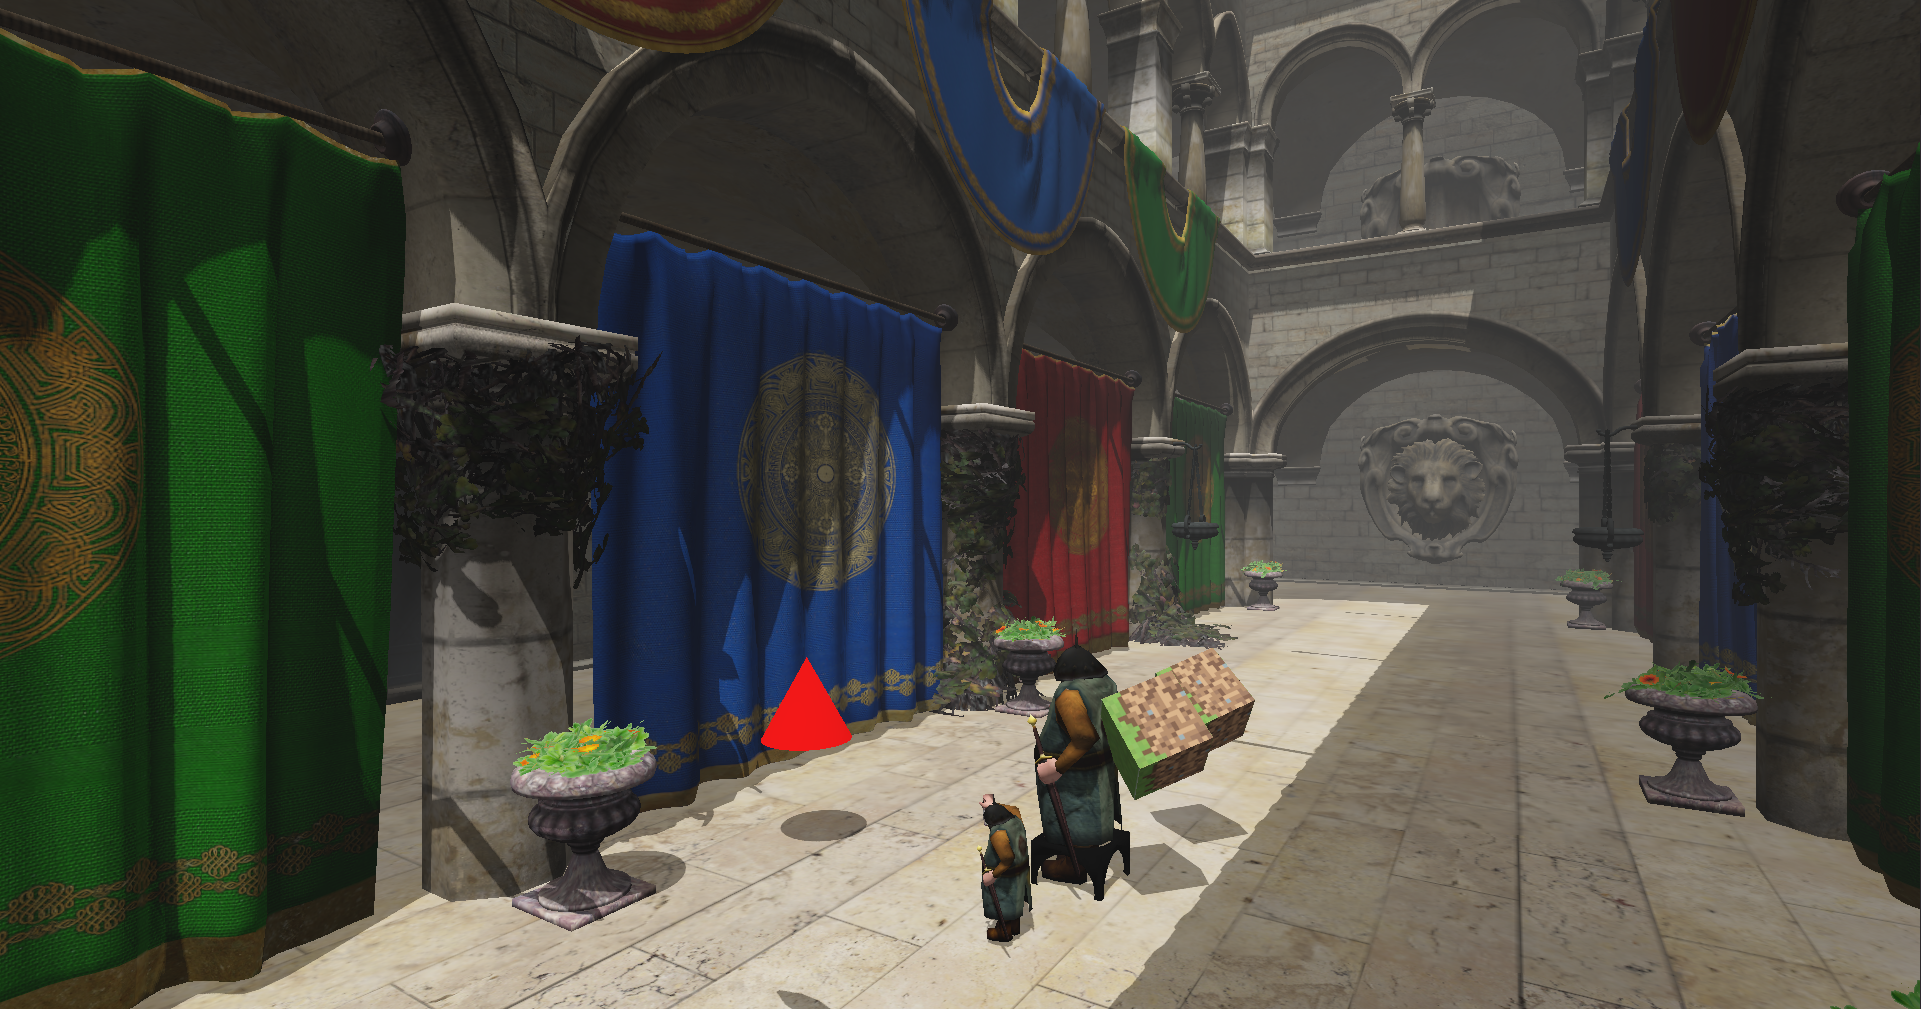
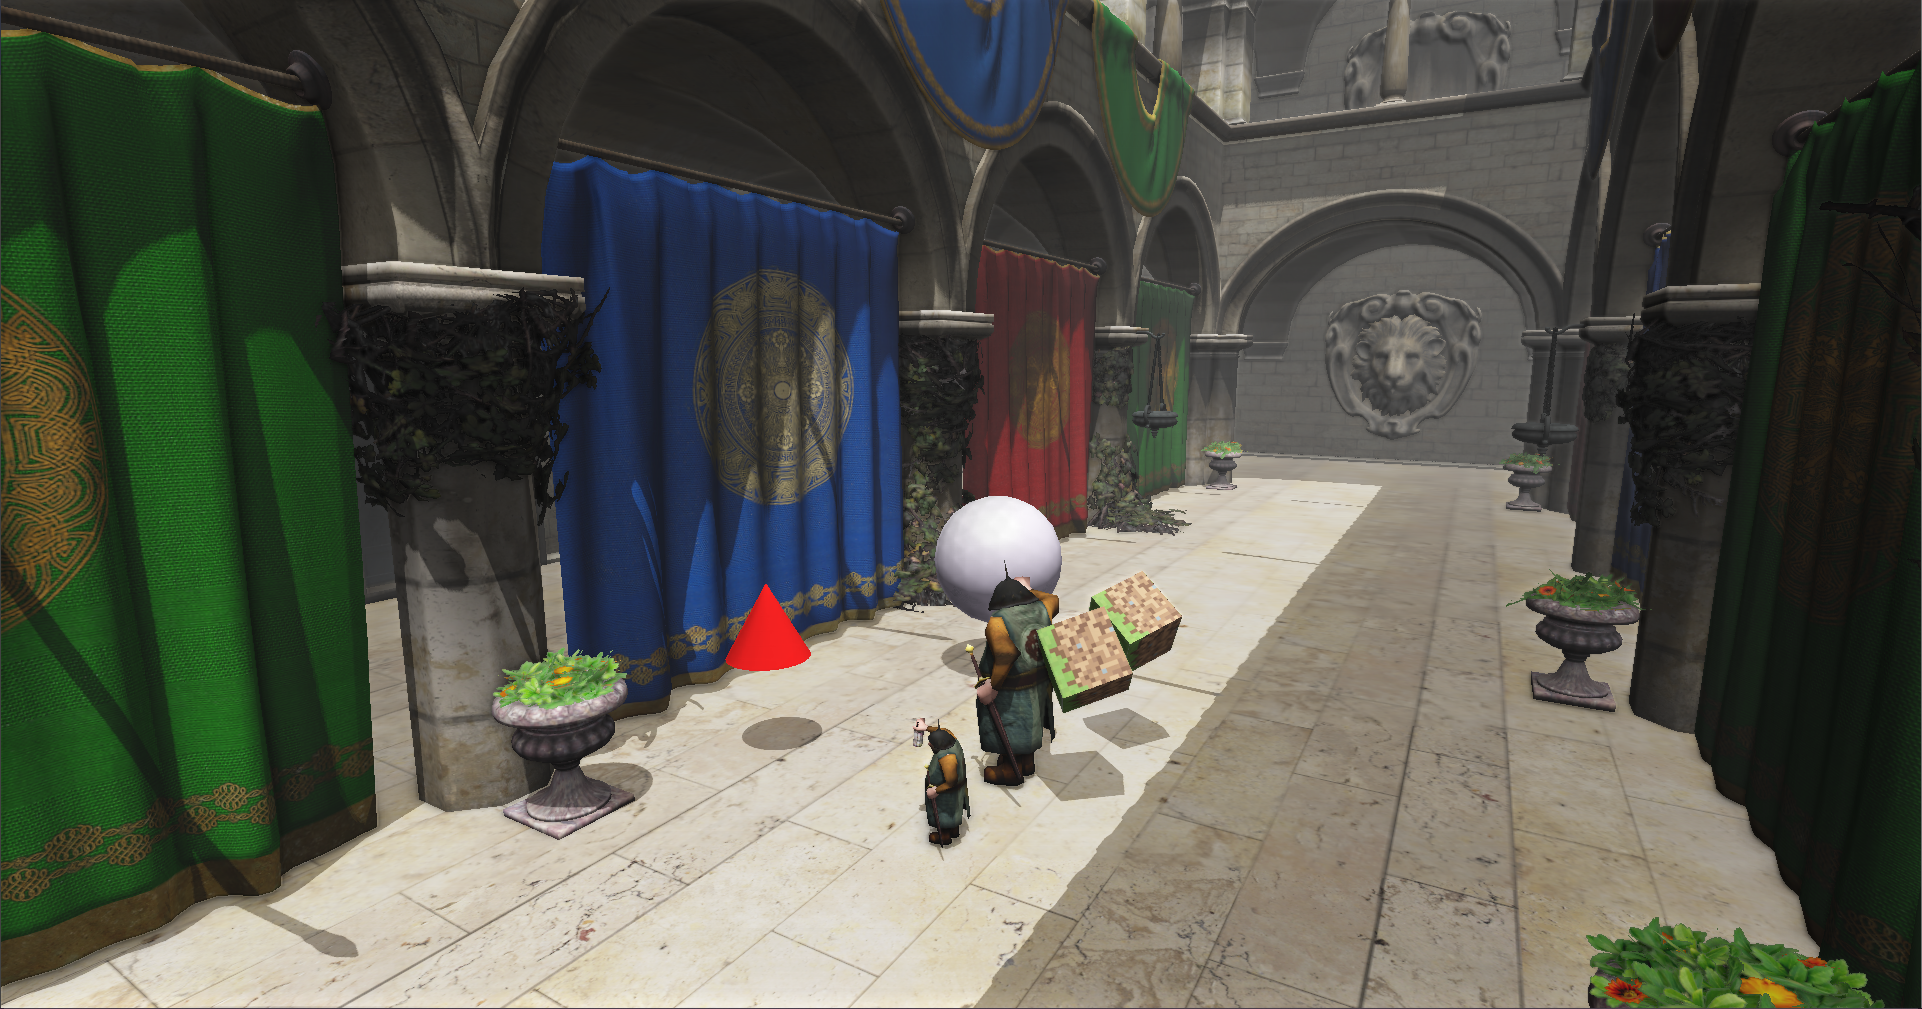
Moved SSAO apply to shader shader renderer stage and fixed ambiguous draw framebuffer binding in bloom renderer

diff --git a/src/main/java/com/engineersbox/quanta/test/Main.java b/src/main/java/com/engineersbox/quanta/test/Main.java
@@ -136,25 +136,25 @@ public class Main implements IAppLogic {
         this.coneEntity.updateModelMatrix();
         context.scene().addEntity(coneEntity);
 
-        final Precision.DoubleEquivalence precision = Precision.doubleEquivalenceOfEpsilon(1e-6);
-        final RegionBSPTree3D tree = Parallelepiped.unitCube(precision).toTree();
-        final Sphere sphere = Sphere.from(
-                Vector3D.ZERO,
-                0.65,
-                precision
-        );
-        tree.difference(sphere.toTree(3));
-        final GeometryBuffer geoBuffer = new GeometryBuffer(tree.toTriangleMesh(precision));
-        final Model testGeoModel = geoBuffer.getModel(
-                "test-geomtry-model",
-                context.scene().getTextureCache(),
-                context.scene().getMaterialCache()
-        );
-        context.scene().addModel(testGeoModel);
-        final Entity testGeoEntity = new Entity("test-geometry-entity", testGeoModel.getId());
-        testGeoEntity.setPosition(4, 4, -4);
-        testGeoEntity.updateModelMatrix();
-        context.scene().addEntity(testGeoEntity);
+//        final Precision.DoubleEquivalence precision = Precision.doubleEquivalenceOfEpsilon(1e-6);
+//        final RegionBSPTree3D tree = Parallelepiped.unitCube(precision).toTree();
+//        final Sphere sphere = Sphere.from(
+//                Vector3D.ZERO,
+//                0.65,
+//                precision
+//        );
+//        tree.difference(sphere.toTree(3));
+//        final GeometryBuffer geoBuffer = new GeometryBuffer(tree.toTriangleMesh(precision));
+//        final Model testGeoModel = geoBuffer.getModel(
+//                "test-geomtry-model",
+//                context.scene().getTextureCache(),
+//                context.scene().getMaterialCache()
+//        );
+//        context.scene().addModel(testGeoModel);
+//        final Entity testGeoEntity = new Entity("test-geometry-entity", testGeoModel.getId());
+//        testGeoEntity.setPosition(4, 4, -4);
+//        testGeoEntity.updateModelMatrix();
+//        context.scene().addEntity(testGeoEntity);
 
         final Model sponzaModel = ModelLoader.loadModel(
                 "sponza-model",
@@ -167,18 +167,18 @@ public class Main implements IAppLogic {
         this.sponzaEntity = new Entity("sponza-entity", sponzaModel.getId());
         context.scene().addEntity(this.sponzaEntity);
 
-        final Model windowModel = ModelLoader.loadModel(
-                "window",
-                "assets/models/window/window.obj",
-                context.scene().getTextureCache(),
-                context.scene().getMaterialCache(),
-                false
-        );
-        context.scene().addModel(windowModel);
-        final Entity windowEntity = new Entity("window-entity", windowModel.getId());
-        windowEntity.setPosition(0, 3, -3);
-        windowEntity.updateModelMatrix();
-        context.scene().addEntity(windowEntity);
+//        final Model windowModel = ModelLoader.loadModel(
+//                "window",
+//                "assets/models/window/window.obj",
+//                context.scene().getTextureCache(),
+//                context.scene().getMaterialCache(),
+//                false
+//        );
+//        context.scene().addModel(windowModel);
+//        final Entity windowEntity = new Entity("window-entity", windowModel.getId());
+//        windowEntity.setPosition(0, 3, -3);
+//        windowEntity.updateModelMatrix();
+//        context.scene().addEntity(windowEntity);
 
         final com.engineersbox.quanta.resources.assets.object.builtin.Sphere sphereModel = new com.engineersbox.quanta.resources.assets.object.builtin.Sphere(
                 "sphere-model",
@@ -192,7 +192,7 @@ public class Main implements IAppLogic {
         sphereMaterial.setReflectance(0.95f);
         sphereMaterial.setSpecularColor(new Vector4f(1.0f, 1.0f, 1.0f, 1.0f));
         final Entity sphereEntity = new Entity("sphere-entity", sphereModel.getId());
-        sphereEntity.setPosition(-5, 2, 1);
+        sphereEntity.setPosition(-4, 2, 2.5f);
         sphereEntity.setScale(0.5f);
         sphereEntity.updateModelMatrix();
         context.scene().addEntity(sphereEntity);
